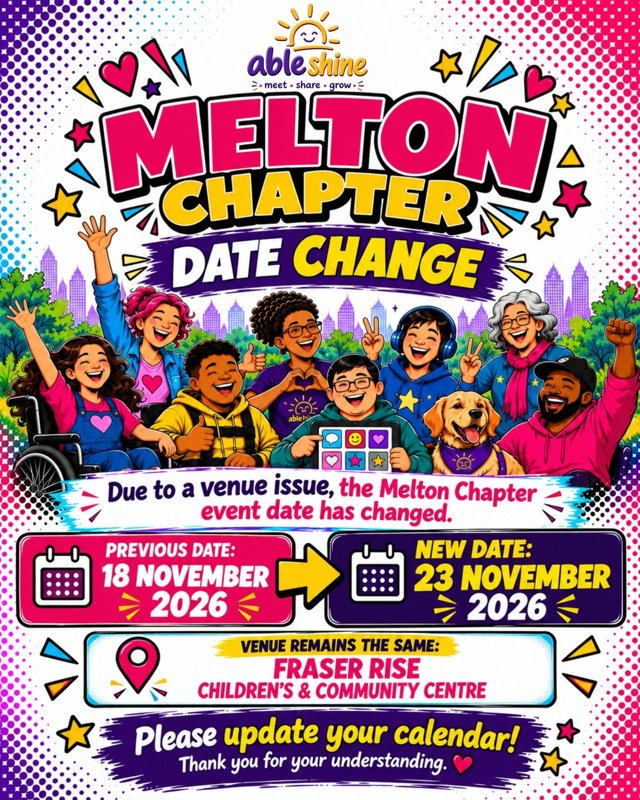
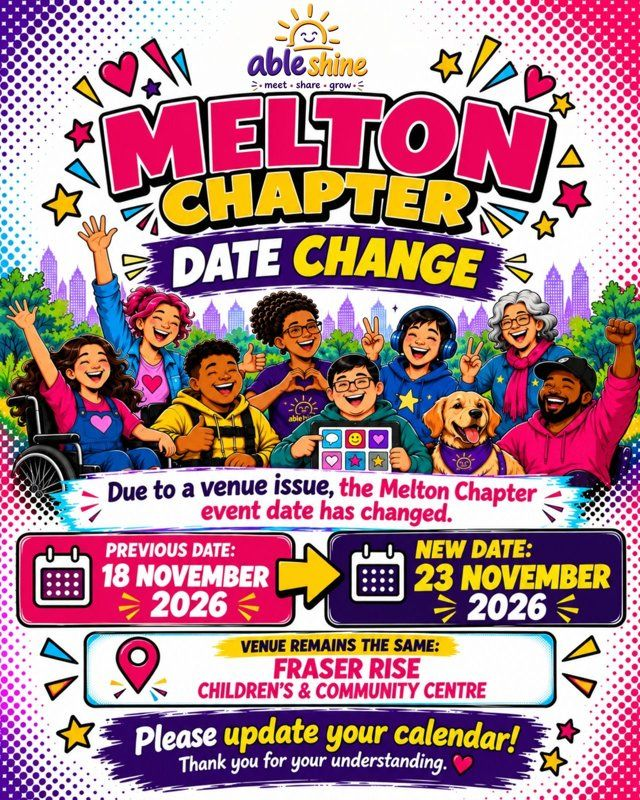
v1.3.0: livelier character (joints, backpack, scarf, wheelchair flag, footstep confetti) and performance (list-first on software 3D, background Three.js, power-saving render, async fonts, app manifest)
Claude-Session: https://claude.ai/code/session_013HsNbET7bApLfccjmptVRR

diff --git a/index.html b/index.html
@@ -8,9 +8,15 @@
 <meta property="og:description" content="Free, all-abilities community days across Melbourne. Explore every AbleShine chapter in a 3D world, see what is on, and view the photos.">
 <meta property="og:image" content="media/logo.png">
 <link rel="icon" href="media/logo.png">
+<link rel="apple-touch-icon" href="media/apple-touch-icon.png">
+<link rel="manifest" href="media/manifest.webmanifest">
+<meta name="theme-color" content="#4B1F9E">
 <title>AbleShine World</title>
 <link rel="preconnect" href="https://fonts.googleapis.com">
-<link rel="stylesheet" href="https://fonts.googleapis.com/css2?family=Lilita+One&family=Nunito:wght@500;600;700;800;900&display=swap">
+<link rel="preconnect" href="https://fonts.gstatic.com" crossorigin>
+<link rel="preload" as="style" href="https://fonts.googleapis.com/css2?family=Lilita+One&family=Nunito:wght@500;600;700;800;900&display=swap">
+<script>(function(){var l=document.createElement('link');l.rel='stylesheet';l.href='https://fonts.googleapis.com/css2?family=Lilita+One&family=Nunito:wght@500;600;700;800;900&display=swap';document.head.appendChild(l);})();</script>
+<noscript><link rel="stylesheet" href="https://fonts.googleapis.com/css2?family=Lilita+One&family=Nunito:wght@500;600;700;800;900&display=swap"></noscript>
 <style>
 html,body{margin:0}
 img{max-width:100%}
@@ -276,7 +282,7 @@ legend{font-family:var(--f-head);font-weight:900;margin-bottom:.4rem;padding:0}
 
   <header class="hud-top">
     <div class="brand">
-      <img id="logo" alt="AbleShine" hidden>
+      <img id="logo" alt="AbleShine" width="340" height="180" hidden>
       <span class="word" id="wordmark">able<b>shine</b></span>
       <div class="sub"><strong id="series-title">AbleShine World</strong><span id="series-count">Loading chapters…</span></div>
     </div>
@@ -354,7 +360,6 @@ legend{font-family:var(--f-head);font-weight:900;margin-bottom:.4rem;padding:0}
   <div id="toast" role="status" aria-live="polite"></div>
 </div>
 
-<script src="https://cdnjs.cloudflare.com/ajax/libs/three.js/r128/three.min.js"></script>
 <script>
 (function(){
 'use strict';
@@ -686,7 +691,7 @@ function applyPrefs(){
   $('#b-big').setAttribute('aria-pressed', S.big ? 'true':'false');
   $('#b-list').textContent = S.list ? '3D world' : 'List view';
   $('#b-list').setAttribute('aria-label', S.list ? 'Back to the 3D world' : 'Switch to list view');
-  $('#lv-back').hidden = !W.ok;
+  $('#lv-back').hidden = !W.ok && !S.lazy3d;
   $('#listview').hidden = !S.list;
   $('#cam').hidden = S.list; $('#labels').hidden = S.list;
 }
@@ -1137,6 +1142,15 @@ function initWorld(){
   if (!window.THREE) throw new Error('no three');
   const T = THREE, canvas = $('#world');
   const renderer = new T.WebGLRenderer({canvas, antialias:true});
+  // Power-saving 3D: with no graphics card (software rendering) every frame is expensive, so the world
+  // only draws while something is happening. W.wake(seconds) keeps it drawing for a while.
+  let glName = ''; try { const gl = renderer.getContext(), dbg = gl.getExtension('WEBGL_debug_renderer_info'); glName = String(gl.getParameter(dbg ? dbg.UNMASKED_RENDERER_WEBGL : gl.RENDERER) || ''); } catch(e){}
+  const forcedQ = store.get('quality', '');
+  W.lite = forcedQ === 'lite' || (forcedQ !== 'high' && /swiftshader|llvmpipe|softpipe|software|basic render/i.test(glName));
+  let awake = performance.now() + 3000; W.wake = sec => { awake = Math.max(awake, performance.now() + (sec || 1.5)*1000); };
+  try { T.DefaultLoadingManager.onLoad = () => W.wake(1); } catch(e){}
+  if (document.fonts && document.fonts.ready) document.fonts.ready.then(() => W.wake(1));
+  ['pointerdown','pointermove','wheel','keydown','touchstart'].forEach(ev => window.addEventListener(ev, () => W.wake(2), {passive: true}));
   renderer.setPixelRatio(Math.min(window.devicePixelRatio || 1, 1.5));
   renderer.shadowMap.enabled = true; renderer.shadowMap.type = T.PCFSoftShadowMap;
   const scene = new T.Scene();
@@ -1187,10 +1201,13 @@ function initWorld(){
   // people (avatar + NPCs)
   const SKIN = ['#F6D3B3','#D9A47A','#A86B43','#6B4428'];
   function person(o){
-    const g = new T.Group(), body = new T.Group(), P = {g, body, type:o.type, legs:[], arms:[], wheels:[], eyes:[]};
+    const g = new T.Group(), body = new T.Group(), P = {g, body, type:o.type, legs:[], arms:[], wheels:[], eyes:[], elbows:[], knees:[]};
     const hood = HEX[o.hood] || o.hood || '#5B2DB0', skin = SKIN[o.skin != null ? o.skin : 1], jeans = '#2E3A8C', hairC = '#2A1A12';
-    const limb = (len, r, col) => { const piv = new T.Group(); const m = mk(new T.CylinderGeometry(r, r, len, 10), col, true, 1.12); m.position.y = -len/2; piv.add(m); return piv; };
-    const hand = (piv, len) => { const hd = mk(new T.SphereGeometry(0.18, 12, 10), skin, true, 1.15); hd.position.y = -len - 0.05; piv.add(hd); };
+    // jointed limb: upper part on the shoulder or hip, lower part on an elbow or knee (returned as .joint)
+    const limb = (len, r, col, lowCol) => { const piv = new T.Group(), up = mk(new T.CylinderGeometry(r, r*0.95, len*0.5, 10), col, true, 1.12); up.position.y = -len*0.25; piv.add(up);
+      const jt = new T.Group(); jt.position.y = -len*0.5; piv.add(jt); const ball = mk(new T.SphereGeometry(r*0.98, 10, 8), lowCol || col, false); jt.add(ball);
+      const lo = mk(new T.CylinderGeometry(r*0.95, r*0.85, len*0.5, 10), lowCol || col, true, 1.12); lo.position.y = -len*0.25; jt.add(lo); piv.joint = jt; return piv; };
+    const hand = (piv, len) => { const hd = mk(new T.SphereGeometry(0.18, 12, 10), skin, true, 1.15); hd.position.y = -len*0.5 - 0.05; piv.joint.add(hd); };
     // head on a neck pivot so it can nod, tilt and look around; face with blinking eyes, rosy cheeks and a smile
     const head = (y, z) => {
       const hg = new T.Group(); hg.position.set(0, y, z); body.add(hg); P.head = hg;
@@ -1205,6 +1222,8 @@ function initWorld(){
     const hoodRing = (y, z) => { const r = mk(new T.TorusGeometry(0.36, 0.14, 8, 18), hood, true, 1.1); r.rotation.x = Math.PI/2; r.position.set(0, y, z); body.add(r); };
     const badge = (y, z) => { const b = mk(new T.CylinderGeometry(0.15, 0.15, 0.05, 14), '#FFC72C', true, 1.25); b.rotation.x = Math.PI/2; b.position.set(0, y, z); body.add(b); };
     body.position.y = 1.1; g.add(body);
+    const scarf = new T.Group(); scarf.position.set(0.18, o.type === 'chair' ? 1.12 : 1.18, o.type === 'chair' ? -0.5 : -0.38); const sc = mk(new T.BoxGeometry(0.2, 0.75, 0.06), '#E0187A', true, 1.12); sc.position.y = -0.37; scarf.add(sc);
+    const tip = mk(new T.BoxGeometry(0.22, 0.12, 0.08), '#FFC72C', false); tip.position.y = -0.78; scarf.add(tip); body.add(scarf); P.scarf = scarf;
     if (o.type === 'chair'){
       const frame = '#3B3355';
       const seat = mk(new T.BoxGeometry(1.3,0.22,1.2), frame); seat.position.set(0,1.0,0); g.add(seat);
@@ -1217,12 +1236,21 @@ function initWorld(){
       [-0.22, 0.22].forEach(x => { const sh = mk(new T.BoxGeometry(0.34,0.2,0.5), '#FFFFFF', true, 1.1); sh.position.set(x,0.44,0.82); g.add(sh); });
       const torso = mk(new T.CylinderGeometry(0.5,0.58,1.1,12), hood); torso.position.set(0,0.6,-0.18); body.add(torso);
       hoodRing(1.14, -0.22); badge(0.72, 0.36); head(1.05, -0.15);
-      [-0.66, 0.66].forEach(x => { const a = limb(0.85, 0.15, hood); hand(a, 0.85); a.position.set(x,0.95,-0.15); a.rotation.x = -0.5; body.add(a); P.arms.push(a); });
+      [-0.66, 0.66].forEach(x => { const a = limb(0.85, 0.15, hood); hand(a, 0.85); a.position.set(x,0.95,-0.15); a.rotation.x = -0.5; body.add(a); P.arms.push(a); P.elbows.push(a.joint); });
+      const pole = mk(new T.CylinderGeometry(0.04, 0.04, 2.4, 6), '#22114A', false); pole.position.set(0.55, 2.7, -0.7); g.add(pole);
+      const fl = new T.Group(); fl.position.set(0.55, 3.75, -0.7); const fm = mk(new T.ConeGeometry(0.32, 0.9, 3), '#E0187A', true, 1.1); fm.rotation.z = Math.PI/2; fm.position.x = -0.45; fl.add(fm); g.add(fl); P.flag = fl;
     } else {
-      [-0.25, 0.25].forEach(x => { const l = limb(1.1, 0.21, jeans); const sh = mk(new T.BoxGeometry(0.36,0.22,0.56), '#FFFFFF', true, 1.1); sh.position.set(0,-1.0,0.1); l.add(sh); l.position.set(x,1.1,0); g.add(l); P.legs.push(l); });
+      [-0.25, 0.25].forEach(x => { const l = limb(1.1, 0.21, jeans); const sh = mk(new T.BoxGeometry(0.36,0.22,0.56), '#FFFFFF', true, 1.1); sh.position.set(0,-0.45,0.1); l.joint.add(sh);
+        const sole = new T.Mesh(new T.BoxGeometry(0.37,0.06,0.57), toon('#E0187A')); sole.position.set(0,-0.55,0.1); l.joint.add(sole); l.position.set(x,1.1,0); g.add(l); P.legs.push(l); P.knees.push(l.joint); });
       const torso = mk(new T.CylinderGeometry(0.52,0.6,1.2,12), hood); torso.position.y = 0.58; body.add(torso);
       hoodRing(1.2, -0.05); badge(0.75, 0.56); head(1.15, 0);
-      [-0.68, 0.68].forEach(x => { const a = limb(0.95, 0.15, hood); hand(a, 0.95); a.position.set(x,1.08,0); body.add(a); P.arms.push(a); });
+      [-0.68, 0.68].forEach(x => { const a = limb(0.95, 0.15, hood); hand(a, 0.95); a.position.set(x,1.08,0); body.add(a); P.arms.push(a); P.elbows.push(a.joint); });
+      // the back is what you see most while walking: hood, a yellow AbleShine backpack with a pink sun patch, straps
+      const hb = mk(new T.SphereGeometry(0.34, 14, 10, 0, Math.PI*2, 0, Math.PI*0.6), hood, true, 1.08); hb.rotation.x = -1.9; hb.position.set(0, 1.08, -0.42); body.add(hb);
+      const pack = mk(new T.BoxGeometry(0.8, 0.82, 0.36), '#FFC72C', true, 1.07); pack.position.set(0, 0.62, -0.68); body.add(pack);
+      const flap = mk(new T.BoxGeometry(0.82, 0.26, 0.4), '#E0187A', false); flap.position.set(0, 0.98, -0.68); body.add(flap);
+      const patch = mk(new T.CylinderGeometry(0.17, 0.17, 0.05, 14), '#E0187A', true, 1.25); patch.rotation.x = Math.PI/2; patch.position.set(0, 0.56, -0.88); body.add(patch);
+      [-0.3, 0.3].forEach(x => { const st = new T.Mesh(new T.BoxGeometry(0.1, 0.9, 0.06), toon('#22114A')); st.position.set(x, 0.75, 0.5); st.rotation.x = -0.12; body.add(st); });
       if (o.type === 'cane'){ const cp = new T.Group(); cp.position.set(0.96, 1.3, 0.3); const cane = mk(new T.CylinderGeometry(0.06,0.06,1.35,8), '#FFC72C', true, 1.3); cane.position.y = -0.62; cp.add(cane);
         const grip = mk(new T.TorusGeometry(0.14, 0.05, 6, 12, Math.PI), '#22114A', false); grip.position.set(0, 0.04, 0.12); grip.rotation.y = Math.PI/2; cp.add(grip); g.add(cp); P.caneP = cp; }
     }
@@ -1360,11 +1388,24 @@ function initWorld(){
   }
   buildAvatar();
   // gestures: wave, cheer, clap, dance (Me panel buttons, tapping your character, and a wave on arrival)
-  W.gesture = (k, quiet) => { const gs = GESTURES.find(x => x.k === k); if (!gs || !av.P) return; av.gk = k; av.gt = av.gd = gs.dur;
+  W.gesture = (k, quiet) => { const gs = GESTURES.find(x => x.k === k); if (!gs || !av.P) return; av.gk = k; av.gt = av.gd = gs.dur; W.wake && W.wake(gs.dur + 0.5);
     if (!av.path.length) av.yawT = cam.yaw;
     if (quiet) return; W.say && W.say(gs.say, 2200);
     if (k === 'cheer') [0, 2, 4, 7].forEach((n, i) => setTimeout(() => tone(NOTES[n], 0.35, 0.05), i*90));
     if (k === 'clap') [0, 1, 2].forEach(i => setTimeout(() => tone(NOTES[6], 0.1, 0.06, 'triangle'), i*220)); };
+  // footstep confetti: little coloured puffs that pop up and shrink away (one draw call)
+  const PUFF_N = 24, puffs = new T.InstancedMesh(new T.SphereGeometry(0.16, 8, 6), toon('#FFFFFF'), PUFF_N), puffD = new T.Object3D(), puffC = new T.Color(), puffList = [];
+  for (let i = 0; i < PUFF_N; i++){ puffList.push({life: 0, x: 0, z: 0, vx: 0, vz: 0}); puffs.setColorAt(i, puffC.set(['#FF7AB6','#FFC72C','#7FD8F5','#B79BF2','#FFFFFF','#9BE07A'][i % 6])); }
+  puffs.frustumCulled = false; scene.add(puffs); let puffI = 0, lastStep = 0;
+  function stepPuffs(dt, calm){
+    const st = Math.floor(av.phase/Math.PI);
+    if (!calm && av.mv > 0.5 && st !== lastStep){ const fx = Math.sin(av.yaw), fz = Math.cos(av.yaw), side = st % 2 ? 0.28 : -0.28;
+      for (let k = 0; k < 3; k++){ const p = puffList[puffI++ % PUFF_N]; p.life = 1; p.x = av.pos.x - fx*0.3 + fz*side; p.z = av.pos.z - fz*0.3 - fx*side; const a = Math.random()*Math.PI*2; p.vx = Math.cos(a)*1.4 - fx*0.8; p.vz = Math.sin(a)*1.4 - fz*0.8; } }
+    lastStep = st;
+    puffList.forEach((p, i) => { if (p.life > 0){ p.life -= dt*2.2; p.x += p.vx*dt; p.z += p.vz*dt; }
+      const k = Math.max(0, p.life); puffD.position.set(p.x, 0.15 + (1 - k)*0.5*(k > 0 ? 1 : 0), p.z); puffD.scale.setScalar(k > 0 ? 0.4 + k : 0.0001); puffD.updateMatrix(); puffs.setMatrixAt(i, puffD.matrix); });
+    puffs.instanceMatrix.needsUpdate = true;
+  }
   // walking, pushing, idling and gesturing, all eased so poses blend instead of snapping
   function poseAvatar(P, dt, t, calm){
     const chair = P.type === 'chair', mv = calm ? 0 : av.mv, ph = av.phase, sw = Math.sin(ph)*0.7*mv, B = P.body;
@@ -1385,6 +1426,13 @@ function initWorld(){
         bob += Math.abs(Math.sin(w))*(chair ? 0.05 : 0.25)*k*e; lg[0] += Math.sin(w)*0.3*k*e; lg[1] -= Math.sin(w)*0.3*k*e; if (chair) spin = Math.sin(t*3.5)*0.45*k*e; P.head.rotation.z = Math.sin(w)*0.18*k*e; }
       if (av.gt <= 0) av.gk = null; }
     P.legs.forEach((l, i) => l.rotation.x = lg[i]);
+    // knees bend as each leg swings through; elbows stay soft and pump with the stride
+    P.knees.forEach((kn, i) => { kn.rotation.x = Math.max(0, Math.sin(ph + (i ? Math.PI : 0) - 0.6))*1.1*mv; });
+    const elb = av.gk === 'cheer' ? 0.05 : av.gk === 'clap' ? 0.7 : av.gk === 'wave' ? null : 0.25 + 0.55*mv + (chair ? 0.5 : 0);
+    P.elbows.forEach((el, i) => { el.rotation.x = -(av.gk === 'wave' && i === 1 ? 0.35 + Math.sin(t*12)*0.3*(calm ? 0 : 1) : (elb == null ? 0.25 : elb) + (chair ? 0 : Math.abs(sw)*0.4)); });
+    if (P.scarf) P.scarf.rotation.x = calm ? 0.55 : 0.55 + mv*0.75 + Math.sin(t*13)*0.18*mv + Math.sin(t*1.7)*0.05;
+    if (P.flag) P.flag.rotation.y = calm ? 0 : Math.sin(t*(3 + mv*6))*0.35;
+    P.head.position.y = (chair ? 1.05 : 1.15) - (chair ? 0 : Math.abs(Math.sin(ph))*0.04*mv);
     P.arms.forEach((a, i) => { a.rotation.x = ax[i]; a.rotation.z = az[i]; });
     B.rotation.set(lean, 0, roll); P.g.position.y = bob; if (spin) P.g.rotation.y = av.yaw + spin;
   }
@@ -1827,7 +1875,7 @@ function initWorld(){
   }
 
   // camera + input
-  const cam = { yaw: 0.35, dist: 26, yawT: 0.35, distT: 26 };
+  const cam = { yaw: 0.35, dist: 22, yawT: 0.35, distT: 22 };
   const keys = {};
   const ray = new T.Raycaster(), ndc = new T.Vector2();
   let down = null, pinch = null; const pointers = new Map();
@@ -1885,7 +1933,7 @@ function initWorld(){
   function frame(){
     requestAnimationFrame(frame);
     if (S.list || S.page || document.hidden || G.on) return;
-    const dt = Math.min(clock.getDelta(), 0.05), t = clock.elapsedTime, calm = S.calm || reduce;
+    const raw = clock.getDelta(), dt = Math.min(raw, 0.05), t = clock.elapsedTime, calm = S.calm || reduce, amb = !calm && !W.lite;
     // input
     const kx = (keys.d||keys.arrowright?1:0) - (keys.a||keys.arrowleft?1:0), kz = (keys.s||keys.arrowdown?1:0) - (keys.w||keys.arrowup?1:0);
     let moving = false;
@@ -1900,7 +1948,7 @@ function initWorld(){
     if (moving){ av.phase += dt*(P.type === 'chair' ? 6 : 10); av.idle = 0; } else av.idle += dt;
     av.mv += ((moving ? 1 : 0) - av.mv)*Math.min(1, dt*8);
     P.wheels.forEach(w => { if (moving) w.rotation.x += (av.speed||9)*dt/0.72; });
-    poseAvatar(P, dt, t, calm);
+    poseAvatar(P, dt, t, calm); stepPuffs(dt, calm);
     if (av.dog){ const fx = Math.sin(av.yaw), fz = Math.cos(av.yaw); const want = v.set(av.pos.x - fx*1.6 + fz*1.4, 0, av.pos.z - fz*1.6 - fx*1.4);
       const dd = av.dogPos.distanceTo(want); if (dd > 0.05){ const dog = av.dog.g; const mv = Math.min(dd, Math.max(6, dd*4)*dt); const dir = want.clone().sub(av.dogPos).normalize(); av.dogPos.addScaledVector(dir, mv); dog.rotation.y = Math.atan2(dir.x, dir.z); }
       av.dog.g.position.copy(av.dogPos); const dw = dd > 0.2 && !calm ? Math.sin(t*14)*0.5 : 0; av.dog.legs.forEach((l,i) => l.rotation.x = (i%2?dw:-dw)); av.dog.tail.rotation.z = calm ? 0 : Math.sin(t*(av.gk ? 20 : 8))*0.5;
@@ -1909,7 +1957,7 @@ function initWorld(){
     const k = calm ? 1 : Math.min(1, dt*5); cam.yaw += (cam.yawT - cam.yaw)*k; cam.dist += (cam.distT - cam.dist)*k; placeCam();
     sun.position.set(av.pos.x + 30, 60, av.pos.z + 20); sun.target.position.copy(av.pos);
     // ambient life
-    if (!calm){ clouds.forEach(c => { c.x += dt*1.2; if (c.x > 220) c.x = -220; }); placeClouds();
+    if (amb){ clouds.forEach(c => { c.x += dt*1.2; if (c.x > 220) c.x = -220; }); placeClouds();
       anim.forEach(a => { if (a.k === 'flag') a.o.rotation.x = Math.sin(t*3)*0.25; else if (a.k === 'float') a.o.position.y = a.y + Math.sin(t*1.5 + a.ph)*0.6;
         else if (a.k === 'balloons') a.place(t);
         else if (a.k === 'glow') a.o.material.emissiveIntensity = 0.45 + Math.sin(t*2.4)*0.3;
@@ -1920,7 +1968,10 @@ function initWorld(){
     sunny.g.position.y += (2.7 + (calm ? 0 : Math.sin(t*2.2)*0.25) - sunny.g.position.y)*sk; sunny.g.rotation.y = cam.yaw;
     sunny.armR.rotation.z = calm ? 0.5 : (bub.el.hidden ? 0.5 + Math.sin(t*2)*0.1 : 2.4 + Math.sin(t*9)*0.45);
     toppers.forEach(sp => { const d = camera.position.distanceTo(sp.getWorldPosition(v)); sp.material.opacity = Math.min(1, Math.max(0.15, (d - 14) / 12)); });
-    renderer.render(scene, camera); W.sampleQuality(dt);
+    if (W.lite){ // power-saving: draw only while moving, turning, gesturing, talking or just after input
+      if (moving || av.gt > 0 || !bub.el.hidden || Math.abs(cam.yawT - cam.yaw) > 0.002 || Math.abs(cam.distT - cam.dist) > 0.02 || av.mv > 0.02) W.wake(0.6);
+      if (performance.now() > awake) return; }
+    renderer.render(scene, camera); W.sampleQuality(raw);
     // labels
     const cw = canvas.clientWidth, ch = canvas.clientHeight;
     tags.forEach(tg => { v.copy(tg.s.anchor).project(camera); const dist = camera.position.distanceTo(tg.s.anchor), st = tg.b.style;
@@ -1942,7 +1993,7 @@ function initWorld(){
   }
   W.nearestIdx = () => { let bi = -1, bd = 1e9; (W.spots||[]).forEach((s,i) => { const d = av.pos.distanceTo(s.pos); if (d < bd){ bd = d; bi = i; } }); return bd < 40 ? bi : -1; };
   W.nearSpecial = () => (W.specials || []).find(sp => av.pos.distanceTo(sp.door) < 8) || null;
-  W.layout = layout; W.rebuildAvatar = () => { buildAvatar(); };
+  W.layout = chs => { layout(chs); W.wake(3); }; W.rebuildAvatar = () => { buildAvatar(); W.wake(1.5); };
   const Q = {n: 0, sum: 0, done: false, forced: store.get('quality', '')};
   function setQuality(level){
     W.quality = level; const low = level === 'low';
@@ -1950,8 +2001,9 @@ function initWorld(){
     npcs.forEach((n, i) => { n.off = low && i % 2 === 1; n.g.visible = !n.off; if (n.dog) n.dog.g.visible = !n.off; });
   }
   W.sampleQuality = dt => { if (Q.done || !S.loaded) return; if (Q.forced){ Q.done = true; setQuality(Q.forced); return; }
-    if (++Q.n > 30){ Q.sum += dt; if (Q.n >= 120){ Q.done = true; if (Q.sum / 90 > 0.034) setQuality('low'); } } };
-  W.ok = true; W.quality = 'high';
+    if (++Q.n > 30){ Q.sum += Math.min(dt, 0.5); if (Q.n >= 120){ Q.done = true; const avg = Q.sum / 90; if (avg > 0.034) setQuality('low'); if (avg > 0.07) W.lite = true; } } };
+  W.ok = true; W.quality = 'high'; if (W.lite){ Q.done = true; setQuality('low'); }
+  window.addEventListener('resize', () => W.wake(1));
   frame();
 }
 function updateHere(force){
@@ -2039,6 +2091,7 @@ function wire(){
   window.addEventListener('hashchange', routeHash);
 }
 function setList(on, thenId){
+  if (!on && !W.ok && S.lazy3d){ S.lazy3d = false; toast('Loading the 3D world...'); loadThree(() => { startWorld(); if (W.ok) setList(false, thenId); }); return; }
   if (!on && !W.ok){ toast('3D is not available on this device.'); return; }
   if (S.page) closePage();
   S.list = on; store.set('list', on); applyPrefs();
@@ -2048,15 +2101,40 @@ function routeHash(){ if (location.hash === '#zones'){ if (S.page !== 'zones') o
 
 /* ---------- boot ---------- */
 applyPrefs(); buildMe(); wire(); wireGame(); renderMeta(); renderGuide(); renderCards();
-try { initWorld(); } catch(e){ W.ok = false; S.list = true; applyPrefs(); $('#b-list').disabled = true; $('#cam').hidden = true; toast('3D is not available on this device, so you are in list view.'); }
-if (W.ok){ W.layout([]); applyPrefs(); }
+// Devices without a graphics card draw 3D in software at 1 or 2 frames a second. They open in List view
+// (everything is there) and build the 3D world only if the visitor asks for it.
+function softwareGL(){
+  try { const c = document.createElement('canvas'), gl = c.getContext('webgl') || c.getContext('experimental-webgl'); if (!gl) return false;
+    const dbg = gl.getExtension('WEBGL_debug_renderer_info'), n = String(gl.getParameter(dbg ? dbg.UNMASKED_RENDERER_WEBGL : gl.RENDERER) || '');
+    const lose = gl.getExtension('WEBGL_lose_context'); lose && lose.loseContext(); return /swiftshader|llvmpipe|softpipe|software|basic render/i.test(n); } catch(e){ return false; }
+}
+// Three.js (about 150KB zipped) loads in the background, so it never holds up the first paint.
+const THREE_URL = 'https://cdnjs.cloudflare.com/ajax/libs/three.js/r128/three.min.js';
+function loadThree(cb){ if (window.THREE) return cb(); const sc = document.createElement('script'); sc.src = THREE_URL; sc.crossOrigin = 'anonymous'; sc.onload = cb; sc.onerror = cb; document.head.appendChild(sc); }
+// Build the 3D island once Three.js is here and the page has painted.
+function boot3d(){
+  const fq = store.get('quality', '');
+  if (!S.list && fq !== 'high' && fq !== 'lite' && softwareGL()){
+    S.list = true; S.lazy3d = true; S.booted = true; applyPrefs();
+    toast('This device has no graphics card for 3D, so you are in list view. Tap "Back to the 3D world" to try it anyway.');
+    if (S.loaded){ refresh(); routeHash(); } return;
+  }
+  loadThree(() => requestAnimationFrame(() => setTimeout(startWorld, 0)));
+}
+function startWorld(){
+  try { initWorld(); } catch(e){ W.ok = false; S.list = true; applyPrefs(); $('#b-list').disabled = true; $('#cam').hidden = true; toast('3D is not available on this device, so you are in list view.'); }
+  S.booted = true;
+  if (W.ok){ if (!S.loaded) W.layout([]); applyPrefs(); }
+  if (S.loaded){ refresh(); routeHash(); }
+}
+boot3d();
 (async function(){
   let site = null;
   try { const res = await fetch('data/site.json', {cache:'no-cache'}); if (res.ok) site = await res.json(); } catch(e){}
   if (!site){ S.loaded = true; S.loadError = true; refresh(); $('#series-count').textContent = 'Chapters could not load'; return; }
   S.config = site.config || {}; S.events = site.events || []; S.partners = Array.isArray(site.partners) ? site.partners : [];
   S.wellness = site.wellness && site.wellness.name ? site.wellness : null; if (S.wellness) SPECIALS.find(x => x.kind === 'wellness').name = S.wellness.tentName || S.wellness.name; S.snaps = (site.snapshots || []).map((s, i) => Object.assign({id: 'snap' + i}, s));
-  S.loaded = true; refresh(); routeHash();
+  S.loaded = true; refresh(); if (S.booted) routeHash();
 })();
 })();
 </script>

diff --git a/CHANGELOG.md b/CHANGELOG.md
@@ -30,11 +30,25 @@ Versions follow **MAJOR.MINOR.PATCH**:
 - Visitors in the crowd wave when they arrive somewhere and say hello as you walk past.
 - Magic zone and Wellbeing zone on the Zones page, plus `#magic` and `#wellness` links.
 
+- **A livelier character on the move:**
+  - Jointed arms and legs: knees bend through each step and elbows pump.
+  - The back is no longer plain: a hood, a yellow backpack with a pink sun patch and straps.
+  - A pink scarf streams out behind as you walk, and wheelchair users get a fluttering pink safety flag.
+  - Little confetti puffs pop up at each footstep (not in Calm mode).
+  - The camera starts a little closer so the character reads better.
+- Home-screen app icon, app manifest and theme colour.
+
 ### Changed
 - **The Play Tent is now an on-brand candy big top** (pink and yellow stripes, a purple and white drum, bunting), replacing the rainbow dome. Its label, topper and list card use the pink and yellow candy stripe too.
 - **Every tent is catchier:** chapter tents have bunting strung from the flagpole to stakes on the grass, and the Partners pavilion has bunting from its peak.
 
 ### Performance
+- **Devices without a graphics card** (software 3D at 1 or 2 frames a second, which is also how Lighthouse and PageSpeed test) now open in List view with everything on it, and a note that they can switch to the 3D world. Three.js isn't downloaded unless they do. If they switch, or a device's frames take over 70ms, the world draws only while something is happening (walking, turning, gesturing, Sunny talking, or just after a tap). Phones and computers with a graphics card are unchanged.
+- Three.js (about 150KB zipped) now loads in the background instead of blocking the page. The page paints first, then builds the 3D island.
+- Local Lighthouse (mobile, software rendering) against 1.2.0: total blocking time **9,840ms → under 50ms**, main-thread work **27s → under 3s**.
+- Fonts no longer block the first paint.
+- The logo has a fixed size, so nothing jumps when it loads.
+- Posters are about 18% lighter.
 - About 350 draw calls, up from 293 in 1.2.0 but still below the 431 in 1.1.0. Triangles are unchanged at about 180k, even with two new tents, bunting everywhere and the more detailed character.
   - The Play Tent went from about 45 draw calls to about 20 (instanced balls, bubbles and bunting).
   - All new scenery is instanced: bunting, stakes, paths, petals, mats, plants and lanterns.
